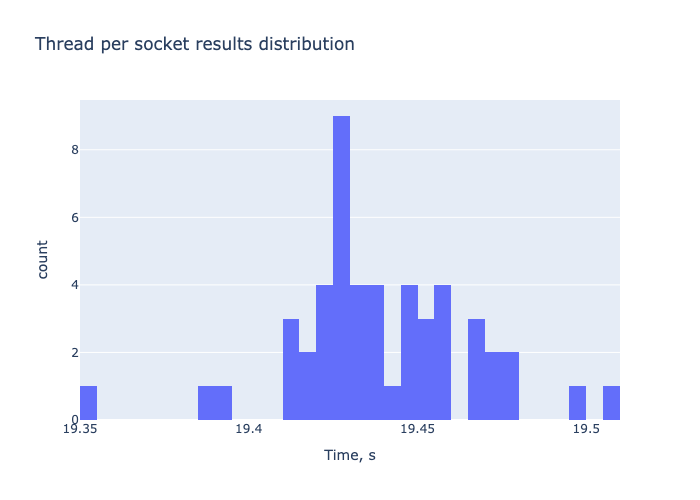
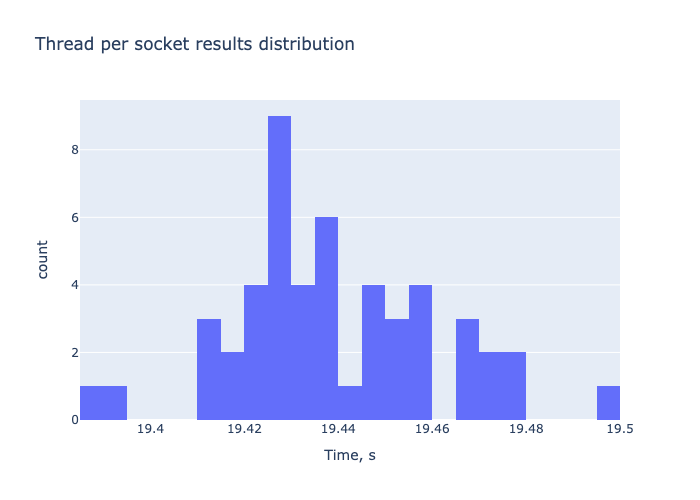
Added length adjusting and some other fixes.

diff --git a/results-processing/one_plot.py b/results-processing/one_plot.py
@@ -1,6 +1,9 @@
 import sys
 import pandas as pd
 import plotly.express as px
+from scipy import stats
+import numpy
+from delete_outliers import delete_outliers
 
 NUMBER_OF_PARAMETER_ROWS = 11  # First lines without needed data
 # NUMBER_OF_WARNING_ROWS = 20
@@ -11,24 +14,49 @@ if __name__ == "__main__":
     # Read csv files
     df = pd.read_csv(sys.argv[1],
                      skiprows=range(0, NUMBER_OF_PARAMETER_ROWS))
-    
-    data = df['real_time'][NUMBER_Of_SKIP_ROWS:] / 10**9
 
+    data_real_time = df['real_time'][NUMBER_Of_SKIP_ROWS:] / 10 ** 9
+    data_cpu_time = df['cpu_time'][NUMBER_Of_SKIP_ROWS:] / 10 ** 9
+    ###################################################################################################################
+    # Delete outliers
+    data_real_time = delete_outliers(data_real_time)
+    data_cpu_time = delete_outliers(data_cpu_time)
+
+    ###################################################################################################################
+    # Display statistics
+    print(f"For {sys.argv[1]}:\n")
     print("\tStatistics for real time, in seconds")
-    print((df.real_time / 10**9).describe())
+    print(pd.Series(data_real_time).describe())
     print("\n\tStatistics for CPU time, in seconds")
-    print((df.cpu_time / 10**9).describe())
+    print(pd.Series(data_cpu_time).describe())
+
+    ###################################################################################################################
+    # Testing normality
+    print("\nTesting normality:\n")
+
+    alpha = 1e-3
+    k2, p = stats.normaltest(data_real_time)
+    normal_data = p >= alpha
+
+    print(f"Mean = {round(numpy.mean(data_real_time), 2)}")
+
+    if normal_data:
+        print(f"Normal distribution, with p = {'%.2g' % p}\n")
+    else:
+        print(f"Not a normal distribution, with p = {'%.2g' % p}\n")
+
     ###################################################################################################################
     # Plot customizations
     custom_labels = {"x": "Time, s",
                      "y": "Number of iterations"}
+
     ###################################################################################################################
     # Creating bar plot of the distribution
-    fig = px.histogram(x=data,
+    fig = px.histogram(x=data_real_time,
                        nbins=100,  # TODO: test which number suits more
-                       title=f"Results distribution of {sys.argv[1]}",
+                       title=f"Results distribution of {sys.argv[1]} (real time)",
                        labels=custom_labels)
 
     # Uncomment if You want to save graph
     # fig.write_image("result-plots/test-plot.png")
-    fig.show()
+    # fig.show()

diff --git a/results-processing/process_results.py b/results-processing/process_results.py
@@ -4,6 +4,7 @@ from scipy import stats
 import numpy
 import plotly.express as px
 import plotly.graph_objects as go
+from delete_outliers import delete_outliers, adjust_length
 
 NUMBER_OF_PARAMETER_ROWS = 11
 NUMBER_OF_WARNING_ROWS = 1
@@ -19,9 +20,16 @@ if __name__ == "__main__":
     thread_df = pd.read_csv(sys.argv[3],
                             skiprows=range(0, NUMBER_OF_PARAMETER_ROWS))
 
-    epoll_data = epoll_df['real_time'][NUMBER_Of_SKIP_ROWS:] / 1000000000
-    process_data = process_df['real_time'][NUMBER_Of_SKIP_ROWS:] / 1000000000
-    thread_data = thread_df['real_time'][NUMBER_Of_SKIP_ROWS:] / 1000000000
+    epoll_data = delete_outliers(epoll_df['real_time'][NUMBER_Of_SKIP_ROWS:] / 1000000000)
+    process_data = delete_outliers(process_df['real_time'][NUMBER_Of_SKIP_ROWS:] / 1000000000)
+    thread_data = delete_outliers(thread_df['real_time'][NUMBER_Of_SKIP_ROWS:] / 1000000000)
+
+    ###################################################################################################################
+    # Adjust to same length
+    needed_length = max(len(epoll_data), len(process_data), len(thread_data))
+    adjust_length(epoll_data, needed_length)
+    adjust_length(process_data, needed_length)
+    adjust_length(thread_data, needed_length)
 
     ###################################################################################################################
     # Plot customizations

diff --git a/results-processing/delete_outliers.py b/results-processing/delete_outliers.py
@@ -1,5 +1,6 @@
 import numpy as np
 from scipy.stats import iqr
+import numpy
 
 
 def delete_outliers(data):
@@ -16,7 +17,16 @@ def delete_outliers(data):
     return list(filter(lambda x: Q1 - 1.5 * IQR <= x <= Q3 + 1.5 * IQR, data))
 
 
+def adjust_length(data, needed_length):
+    mean_value = numpy.mean(data)
+    data += [mean_value] * (needed_length - len(data))
+
+
 # Testing
 if __name__ == "__main__":
     test_data = [1, 2, 3, 4, -60, 90, 56, 3, 2, 3, 2, 5, 4, 6, -100]
-    print(delete_outliers(test_data))
+    test_data = delete_outliers(test_data)
+    print(len(test_data))
+    adjust_length(test_data, len(test_data) + 10)
+    print(len(test_data))
+    print(test_data)
